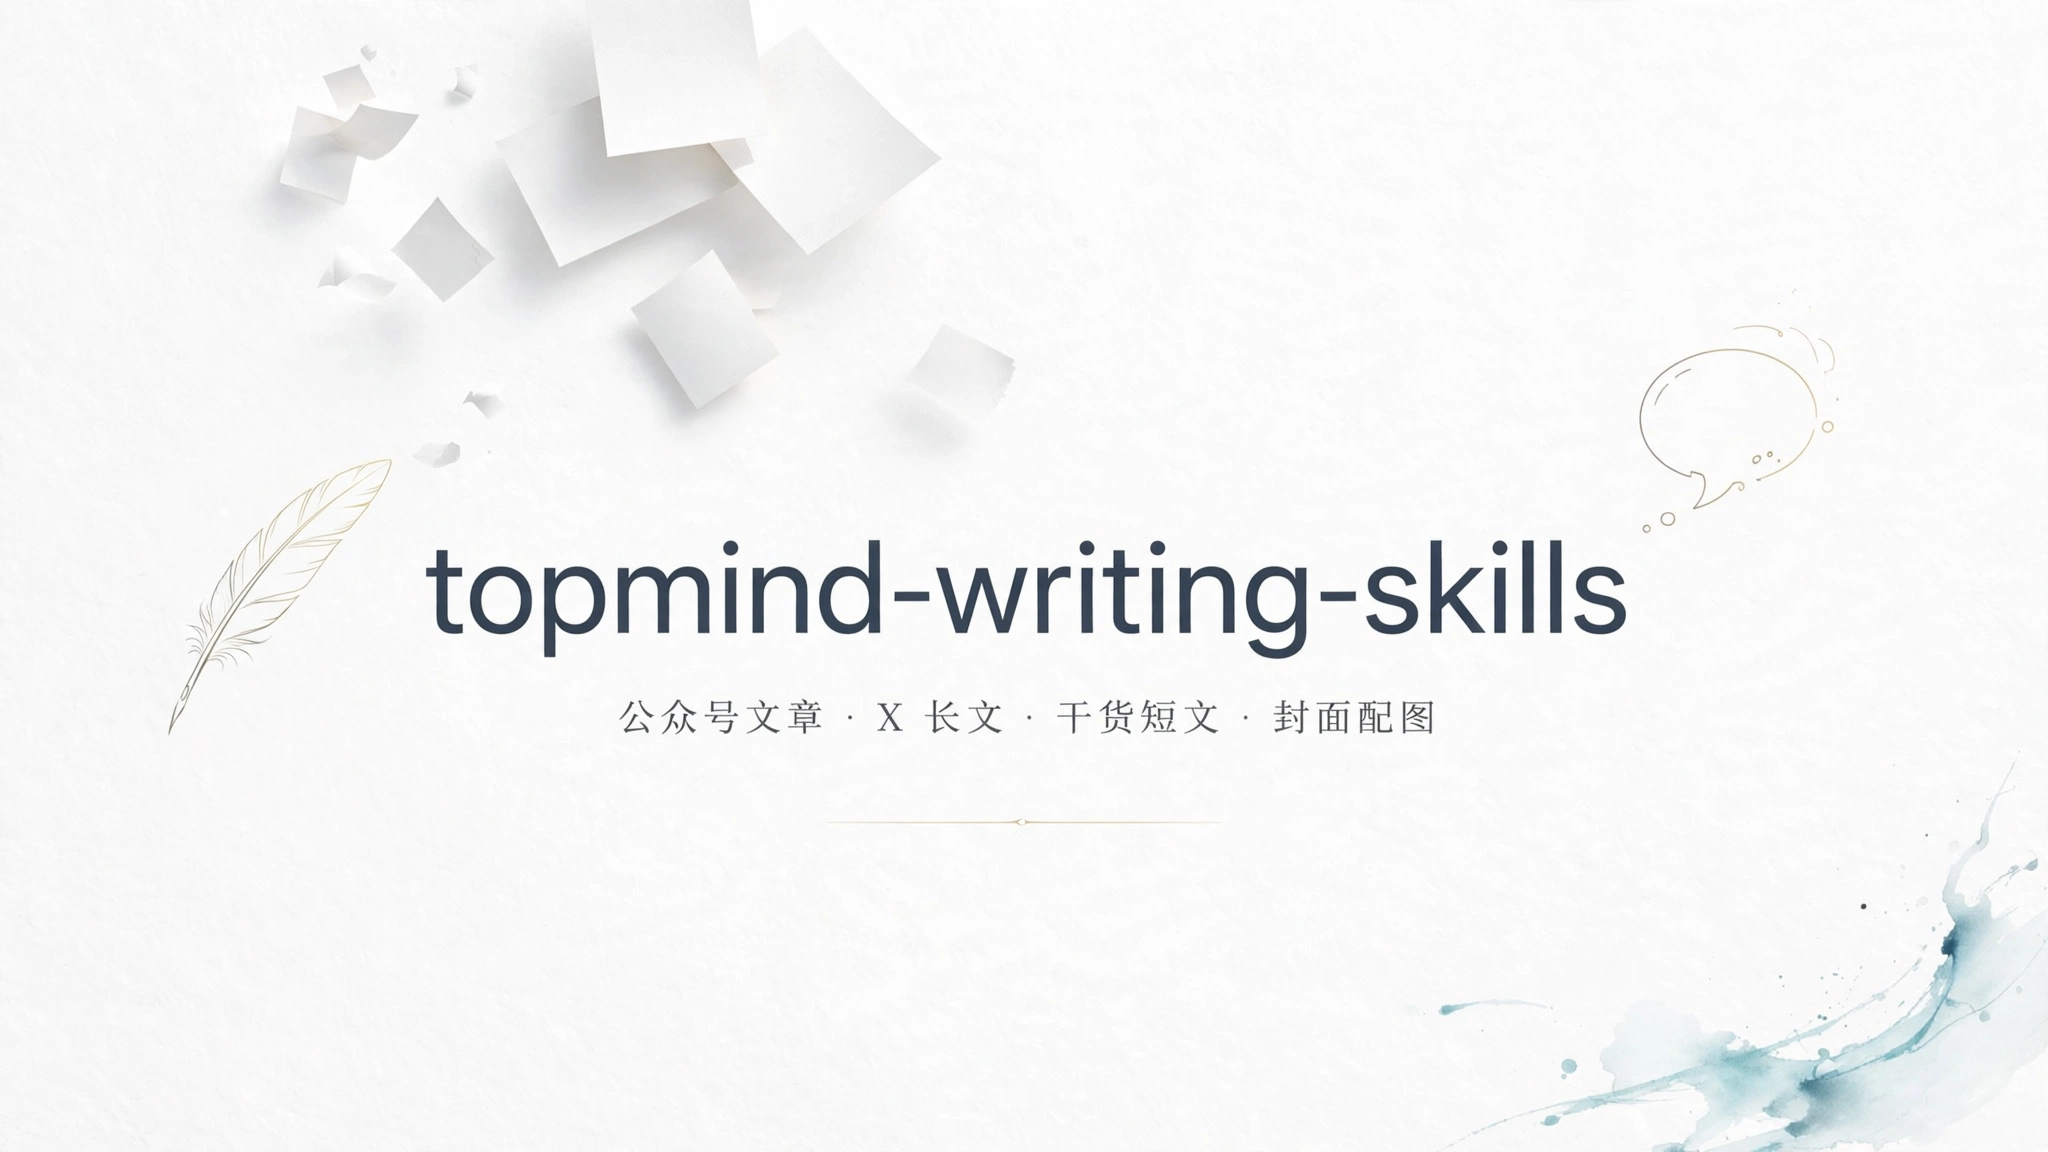
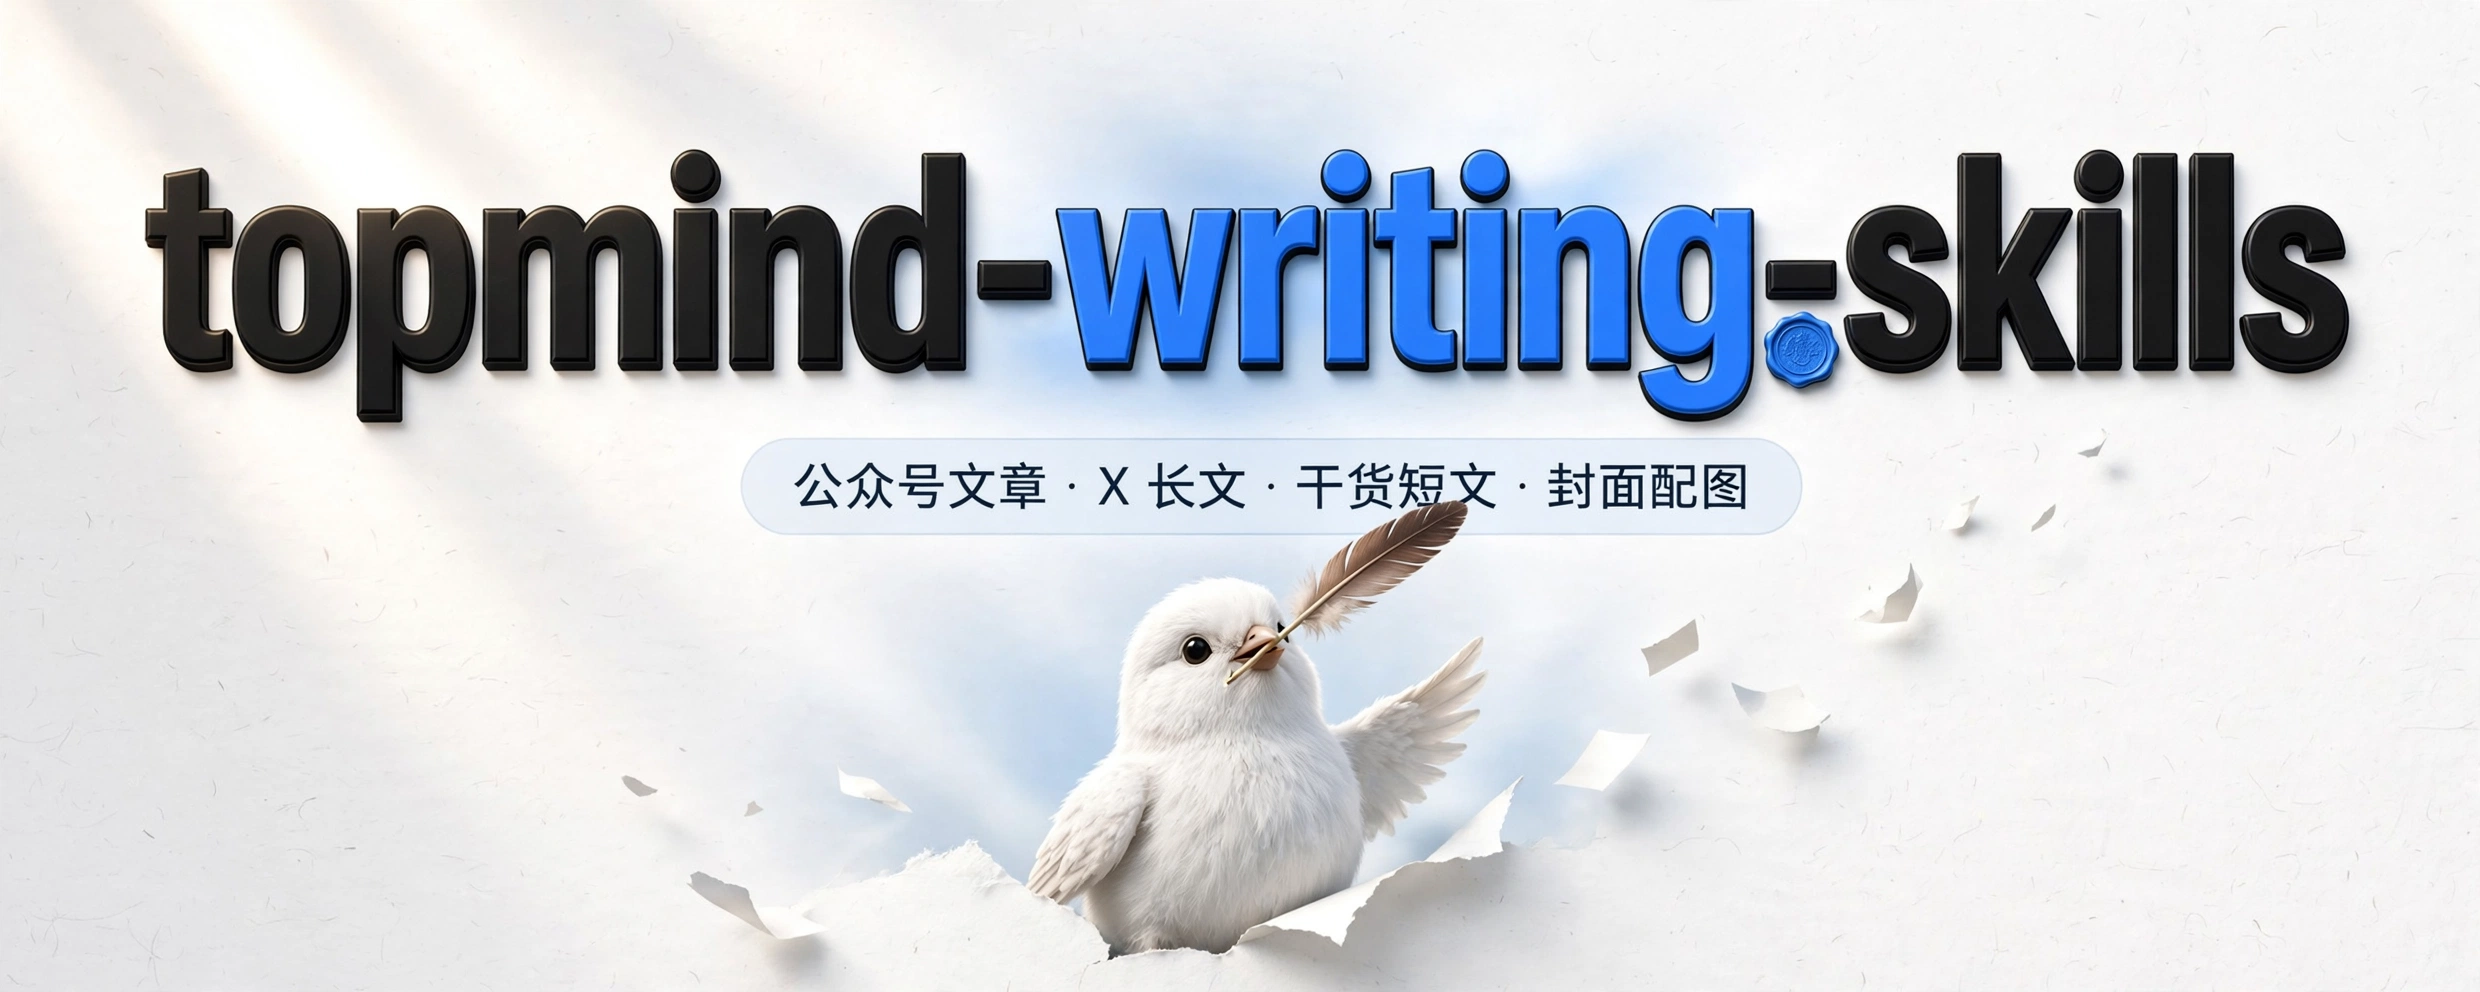
bump: 根包 0.7.2 / topmind-cover 0.3.1
- cover 技能新增 white-clean 震撼升级包（前景压字/雕塑字/纵深三层/体积光/对角线/撞色）
- 两仓 README+落地页换按技能配方新生成的 5:2 白色清新 banner 封面

diff --git a/topmind-cover/references/cover-styles.md b/topmind-cover/references/cover-styles.md
@@ -280,6 +280,34 @@ prompt 配方为中英双语模板：`{TITLE}` 为标题文字占位符（短标
   - 绝不装饰超量：花式 2~3 种封顶，小装饰（星星/感叹号）至多 2 处。
   - 绝不无意义插图：插图必须与主题绑定、讲"正在用"的故事，纯装饰角色一律不用。
 
+### 震撼升级包（2026-10-01：白色清新不等于平淡）
+
+白色清新的"清新"是干净通透，不是寡淡。以下 6 种手法按需选用 2~3 种，
+是本风格从"好看"到"震撼"的升级开关：
+
+1. **前景压字（破框而出）**：3D 角色/主题物件从画面底部升起，压住标题下 1/4，
+   标题上 3/4 保持清晰可读。字与形象前后穿插，制造"破框而出"的空间纵深——
+   这是电影海报最常用的震撼手法。压字处加一层柔和投影，字不脏。
+2. **字体的雕塑感**：标题拒绝 plain font block——超粗黑体 + 1px 深色描边 +
+   向右下 3px 的同色深一号投影，三层做出"刻出来"的体积感；或给撞色关键词
+   加轻微挤压变形（竖向压 95%），字形本身就有张力。
+3. **纵深三层**：远景（极淡的撞色光晕/大面积留白）→ 中景（标题横幅）→
+   前景（角色/物件/纸片，带真实投影）。三层明暗拉开，拒绝所有元素贴在一个平面上。
+4. **对角线动能**：主体元素沿左下→右上对角线排布（如纸片飞散、角色攀爬），
+   打破全水平构图的呆板；标题本身永远水平，动能交给元素走位。
+5. **体积光**：一束柔和的斜向光从左上打下来，照亮标题区，背景形成自然的明暗渐变——
+   光就是最便宜的"震撼"。
+6. **撞色只给一处、给足**：纯白底上撞色天然醒目。选定一个撞色（如电光紫 #7C5CFF
+   或活力橙红 #FF5A2E），只给标题里的 1 个关键词 + 1 个小元素（如印章/胶囊），
+   别处一律黑白灰。少即是多，多即是吵。
+
+升级版 prompt 追加段（拼在原配方末尾）：
+```
+震撼升级：{UPGRADE}（从上方 6 种选 2~3 种，如"前景压字+体积光"）。纵深三层必须拉开：
+远景淡光晕 → 中景标题 → 前景主体带投影；标题雕塑感（描边+投影）拒绝 plain font block；
+对角线动能由元素走位承担，标题保持水平。
+```
+
 ---
 
 ## 2. bg-blur · 背景虚化

diff --git a/README.md b/README.md
@@ -63,7 +63,7 @@ npx @topmindspace/topmind-writing-skills install topmind-cover
 |------|------|--------|
 | [`topmind-wechat-post`](./topmind-wechat-post/) | **0.2.0** | 公众号文章全生命周期：交付包、审校改写、质量三关、微信内联排版与发布清单 |
 | [`topmind-x-article`](./topmind-x-article/) | **0.4.0** | X 长文一键发布：Markdown 原稿 → 一键复制 HTML（含配图/提示词复制、图片点击放大）/ 纯文本兜底 + 封面图 + 发布清单 |
-| [`topmind-cover`](./topmind-cover/) | **0.3.0** | 文章封面配图（X / 公众号共用，X 主尺寸 1500×600 / 5:2）：震撼醒目主题突出；11 风格封面风格库 + 26 张示例图（含 3 张 alt 样张） + 1 张风格总览图 |
+| [`topmind-cover`](./topmind-cover/) | **0.3.1** | 文章封面配图（X / 公众号共用，X 主尺寸 1500×600 / 5:2）：震撼醒目主题突出；11 风格封面风格库 + 26 张示例图（含 3 张 alt 样张） + 1 张风格总览图 |
 | [`topmind-briefs`](./topmind-briefs/) | **0.2.1** | 干货短文（公众号 + X 双平台）：一件事讲透，数据榜单/论文解读/新品速递；双版一键复制 HTML |
 
 安装器 [`@topmindspace/topmind-writing-skills`](https://www.npmjs.com/package/@topmindspace/topmind-writing-skills) 为 **0.7.0**（整仓同 tag 发版）。
@@ -78,7 +78,7 @@ npx @topmindspace/topmind-writing-skills install topmind-cover
 npx @topmindspace/topmind-writing-skills list
 npx @topmindspace/topmind-writing-skills install topmind-briefs
 npx @topmindspace/topmind-writing-skills install topmind-briefs --to ./.claude/skills
-npx @topmindspace/topmind-writing-skills@0.7.1 install topmind-briefs   # 钉版本
+npx @topmindspace/topmind-writing-skills@0.7.2 install topmind-briefs   # 钉版本
 npx @topmindspace/topmind-writing-skills uninstall topmind-briefs --to ./.claude/skills
 ```
 

diff --git a/README.en.md b/README.en.md
@@ -65,7 +65,7 @@ npx @topmindspace/topmind-writing-skills install topmind-cover
 |-------|---------|--------------|
 | [`topmind-wechat-post`](./topmind-wechat-post/) | **0.2.0** | WeChat article lifecycle: package, review, 3 quality gates, inline typography & publish checklist |
 | [`topmind-x-article`](./topmind-x-article/) | **0.4.0** | X long-form one-click publish: Markdown → one-click-copy HTML (images/prompt copy, click-to-zoom images) / plain-text fallback + cover + checklist |
-| [`topmind-cover`](./topmind-cover/) | **0.3.0** | Cover art for X / WeChat (X master 1500×600 / 5:2): striking, theme-focused; 11-style cover style library + 26 example images (incl. 3 alt samples) + 1 style overview |
+| [`topmind-cover`](./topmind-cover/) | **0.3.1** | Cover art for X / WeChat (X master 1500×600 / 5:2): striking, theme-focused; 11-style cover style library + 26 example images (incl. 3 alt samples) + 1 style overview |
 | [`topmind-briefs`](./topmind-briefs/) | **0.2.1** | Short-form briefs (WeChat + X): one topic, one chart; data rankings / paper one-liners / product alerts / mechanism explainers; one-click-copy HTML for both |
 
 Installer [`@topmindspace/topmind-writing-skills`](https://www.npmjs.com/package/@topmindspace/topmind-writing-skills) is **0.7.0** (whole-repo same-tag releases).
@@ -78,7 +78,7 @@ Installer [`@topmindspace/topmind-writing-skills`](https://www.npmjs.com/package
 npx @topmindspace/topmind-writing-skills list
 npx @topmindspace/topmind-writing-skills install topmind-briefs
 npx @topmindspace/topmind-writing-skills install topmind-briefs --to ./.claude/skills
-npx @topmindspace/topmind-writing-skills@0.7.1 install topmind-briefs   # pin
+npx @topmindspace/topmind-writing-skills@0.7.2 install topmind-briefs   # pin
 npx @topmindspace/topmind-writing-skills uninstall topmind-briefs --to ./.claude/skills
 ```
 

diff --git a/docs/PUBLISHING.md b/docs/PUBLISHING.md
@@ -12,7 +12,7 @@
 - 包：<https://www.npmjs.com/package/@topmindspace/topmind-writing-skills>
 - 仓库：<https://github.com/topmindspace/topmind-writing-skills>
 
-当前线：安装器 **0.7.1** · 技能 topmind-cover **0.3.0** · topmind-wechat-post **0.2.0** · topmind-x-article **0.4.0** · topmind-briefs **0.2.1**（整仓同 tag 发版；见 CHANGELOG）。
+当前线：安装器 **0.7.2** · 技能 topmind-cover **0.3.1** · topmind-wechat-post **0.2.0** · topmind-x-article **0.4.0** · topmind-briefs **0.2.1**（整仓同 tag 发版；见 CHANGELOG）。
 演示技能已独立为 `topmind-presentation`（仓库 `topmind-presentation`），不在本仓发布线内。
 
 
@@ -36,7 +36,7 @@ npm 上的旧包 `@topmindspace/tms-skills` **2.0.0–2.1.1 已弃用**（仓库
 
 ## 版本策略（务必遵守）
 
-**整仓同 tag**：`git tag vX.Y.Z` 的 `X.Y.Z` = 根 `package.json` 的 `version`（即安装器 version，如当前 v0.7.1）；tag 号不代表任何技能版本。**各技能 `version` 独立演进**（如 topmind-x-article 0.4.0、topmind-cover 0.3.0），不与 tag 号绑定。
+**整仓同 tag**：`git tag vX.Y.Z` 的 `X.Y.Z` = 根 `package.json` 的 `version`（即安装器 version，如当前 v0.7.2）；tag 号不代表任何技能版本。**各技能 `version` 独立演进**（如 topmind-x-article 0.4.0、topmind-cover 0.3.0），不与 tag 号绑定。
 
 | 包 | 事实源 | 规则 |
 |----|--------|------|

diff --git a/CHANGELOG.md b/CHANGELOG.md
@@ -1,3 +1,11 @@
+## [0.7.2] - 2026-10-01
+
+> 根包 0.7.1 → **0.7.2**（patch）；技能：topmind-cover 0.3.0 → **0.3.1**（patch）。
+>
+> - topmind-cover 新增 **white-clean 震撼升级包**：前景压字（破框而出）、字体雕塑感、
+>   纵深三层、体积光、对角线动能、撞色一处给足——白色清新从"好看"到"震撼"的 6 开关。
+> - 两仓 README/落地页换上按 cover 技能配方新生成的白色清新 banner 封面（5:2）。
+
 ## [0.7.1] - 2026-10-01
 
 > 根包 0.7.0 → **0.7.1**（patch）；技能：topmind-briefs 0.2.0 → **0.2.1**（patch，文档与去 AI 味优化）；

diff --git a/topmind-cover/SKILL.md b/topmind-cover/SKILL.md
@@ -1,6 +1,6 @@
 ---
 name: topmind-cover
-version: 0.3.0
+version: 0.3.1
 description: "文章封面配图生成：X 长文与公众号共用。震撼、醒目、主题突出；平台尺寸规范、11 种风格模板、命名落盘、成图检查全流程覆盖。Use when 文章封面、封面图、头图、题图、cover。Do NOT use for 正文插图、PPT/报告封面。"
 action_category: write
 triggers:

diff --git a/topmind-briefs/README.md b/topmind-briefs/README.md
@@ -5,7 +5,7 @@
 一件事，一张图，讲完就停。干货向短文：数据榜单、论文一句话解读、新品速递——
 X 一帖或短 thread，公众号约 300–800 字，双版一键复制 HTML。
 
-- 版本：**v0.2.1**（与 `@topmindspace/topmind-writing-skills@0.7.1` 同 tag）
+- 版本：**v0.2.1**（与 `@topmindspace/topmind-writing-skills@0.7.2` 同 tag）
 
 ## 安装
 

diff --git a/topmind-briefs/README.en.md b/topmind-briefs/README.en.md
@@ -6,7 +6,7 @@ One topic, one chart, then stop. Data-driven short posts: rankings, paper TL;DRs
 product launches — one X post or short thread, ~300–800 words on WeChat,
 one-click-copy HTML for both.
 
-- Version: **v0.2.1** (same tag as `@topmindspace/topmind-writing-skills@0.7.1`)
+- Version: **v0.2.1** (same tag as `@topmindspace/topmind-writing-skills@0.7.2`)
 
 ## Install
 

diff --git a/topmind-wechat-post/README.en.md b/topmind-wechat-post/README.en.md
@@ -4,7 +4,7 @@
 
 Full lifecycle for WeChat articles: delivery package, review & rewrite, three quality gates, status sync, WeChat inline typography, and publish checklist.
 
-- Version: **v0.2.0** (same tag as `@topmindspace/topmind-writing-skills@0.7.1`)
+- Version: **v0.2.0** (same tag as `@topmindspace/topmind-writing-skills@0.7.2`)
 
 ## Install
 

diff --git a/topmind-cover/README.en.md b/topmind-cover/README.en.md
@@ -4,7 +4,7 @@
 
 A reusable skill for generating cover art for X long-form posts and WeChat articles. Goal: **striking, eye-catching, theme-focused**.
 
-- Version: **v0.3.0** (same tag as `@topmindspace/topmind-writing-skills@0.7.1`)
+- Version: **v0.3.1** (same tag as `@topmindspace/topmind-writing-skills@0.7.2`)
 
 ## Style gallery
 

diff --git a/topmind-wechat-post/README.md b/topmind-wechat-post/README.md
@@ -4,7 +4,7 @@
 
 公众号文章全生命周期：交付包、审校改写、质量三关、状态同步、微信内联排版与发布清单。
 
-- 版本：**v0.2.0**（与 `@topmindspace/topmind-writing-skills@0.7.1` 同 tag）
+- 版本：**v0.2.0**（与 `@topmindspace/topmind-writing-skills@0.7.2` 同 tag）
 
 ## 安装
 

diff --git a/topmind-cover/README.md b/topmind-cover/README.md
@@ -4,7 +4,7 @@
 
 为 X 长文和公众号文章生成封面图的可复用技能。目标：**震撼、醒目、主题突出**。
 
-- 版本：**v0.3.0**（与 `@topmindspace/topmind-writing-skills@0.7.1` 同 tag）
+- 版本：**v0.3.1**（与 `@topmindspace/topmind-writing-skills@0.7.2` 同 tag）
 
 ## 风格样张
 
